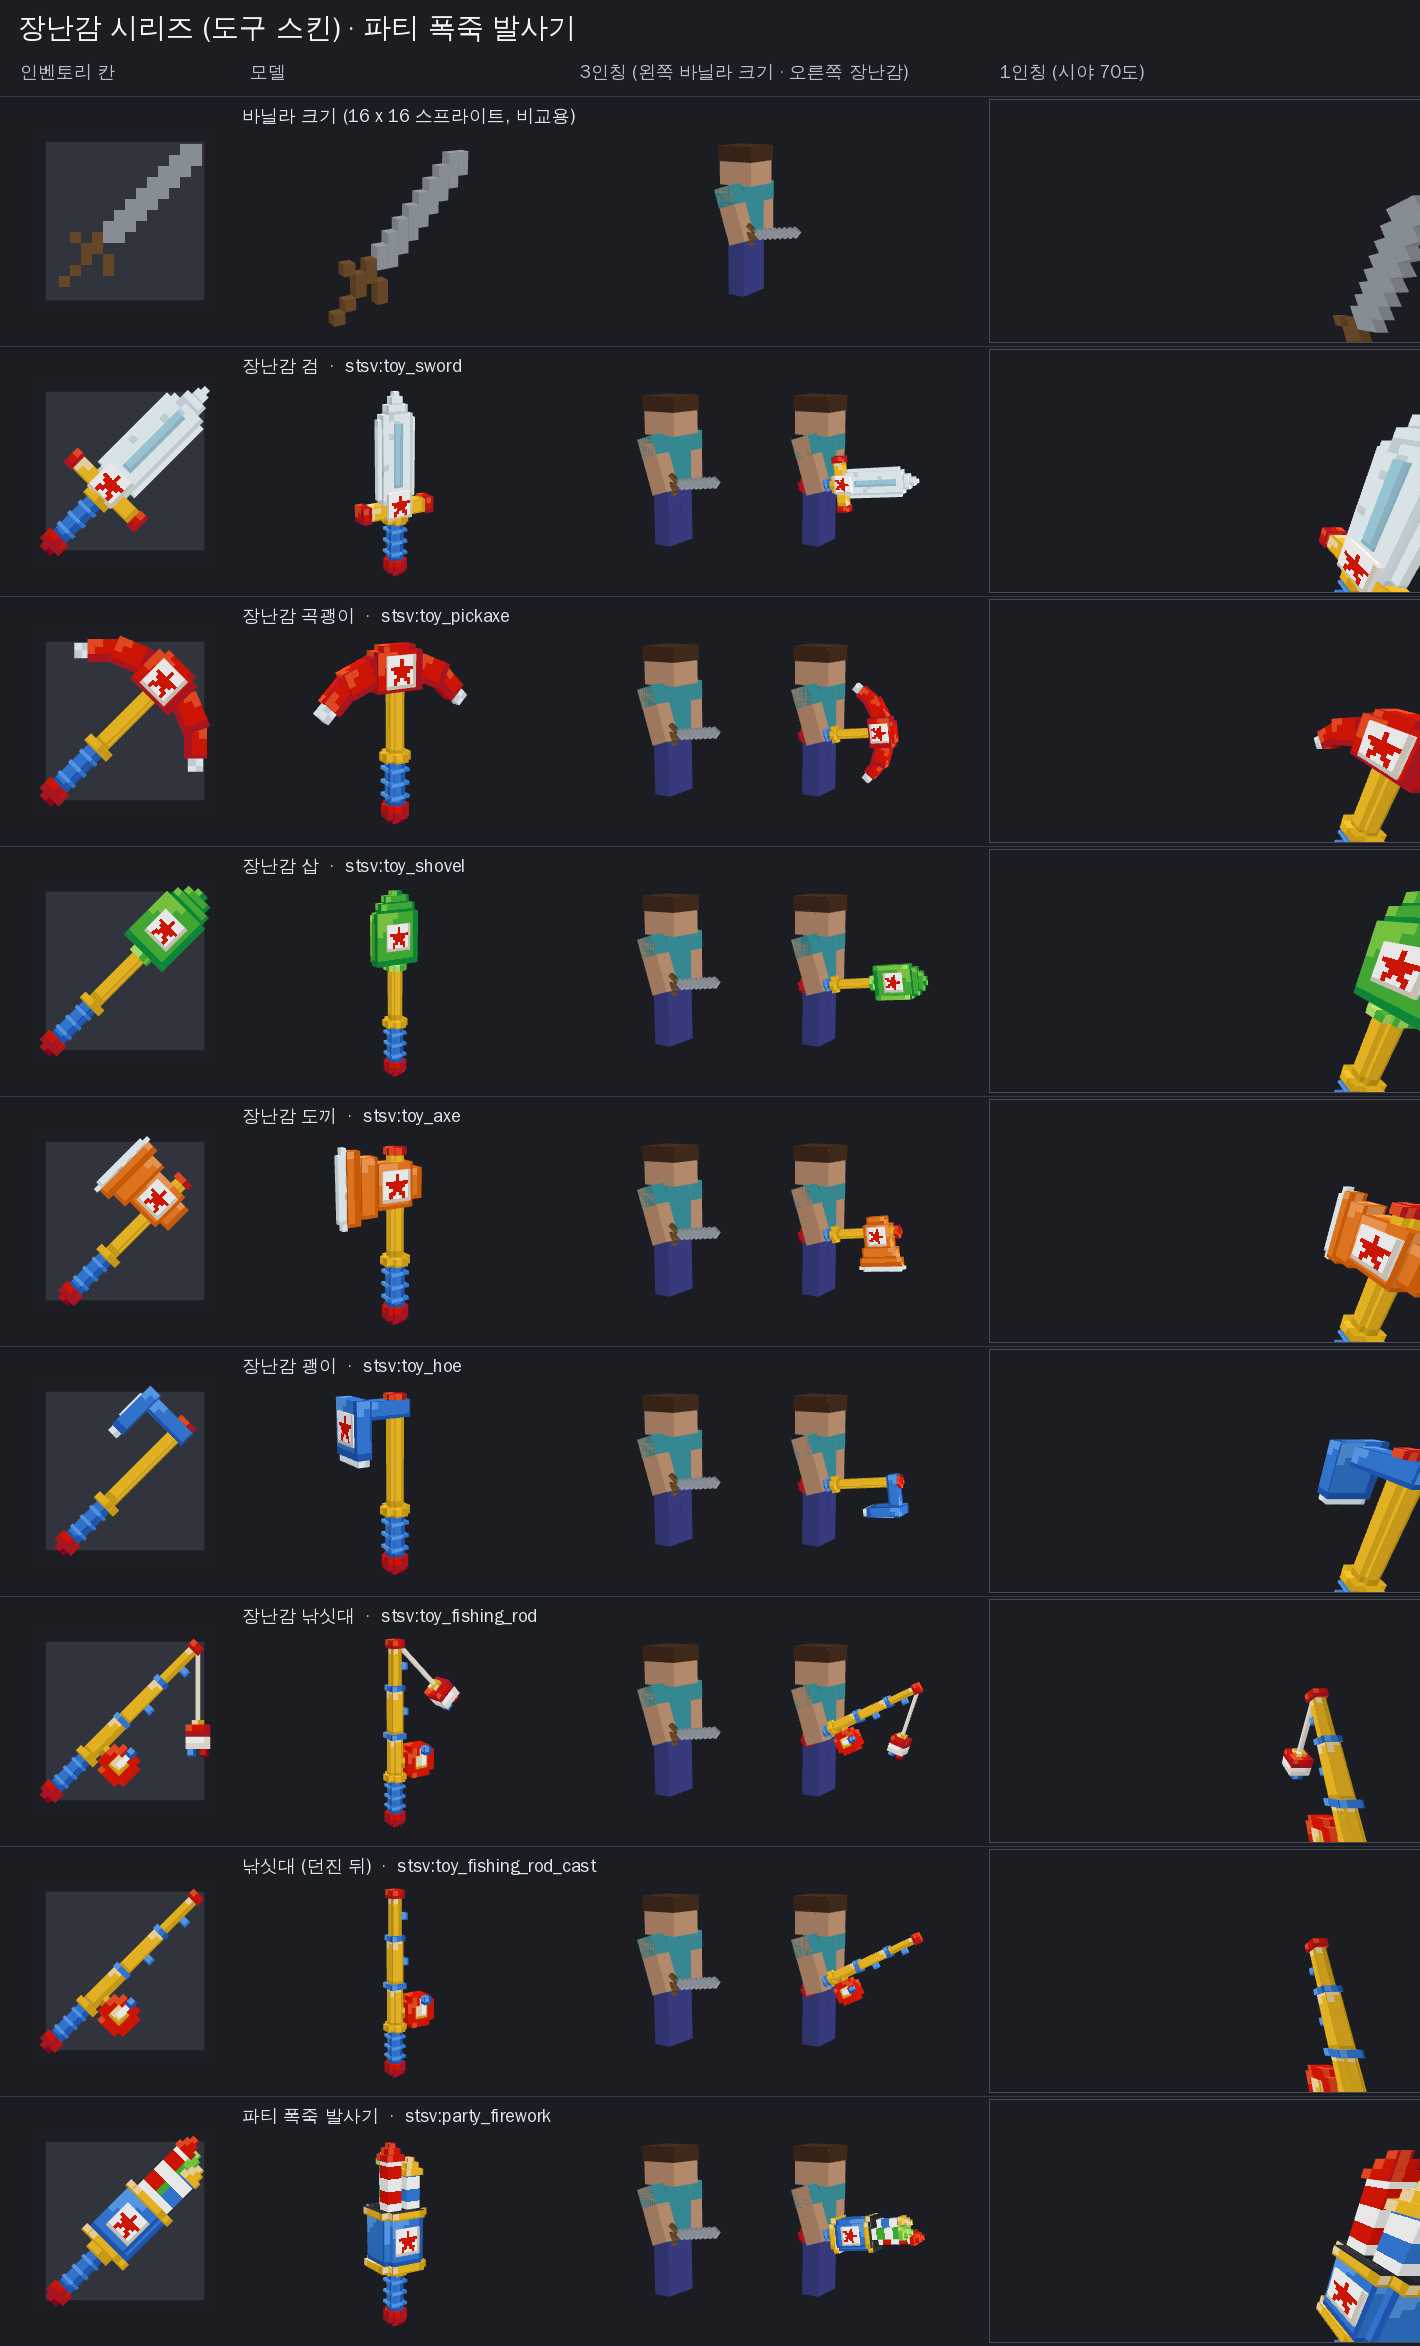
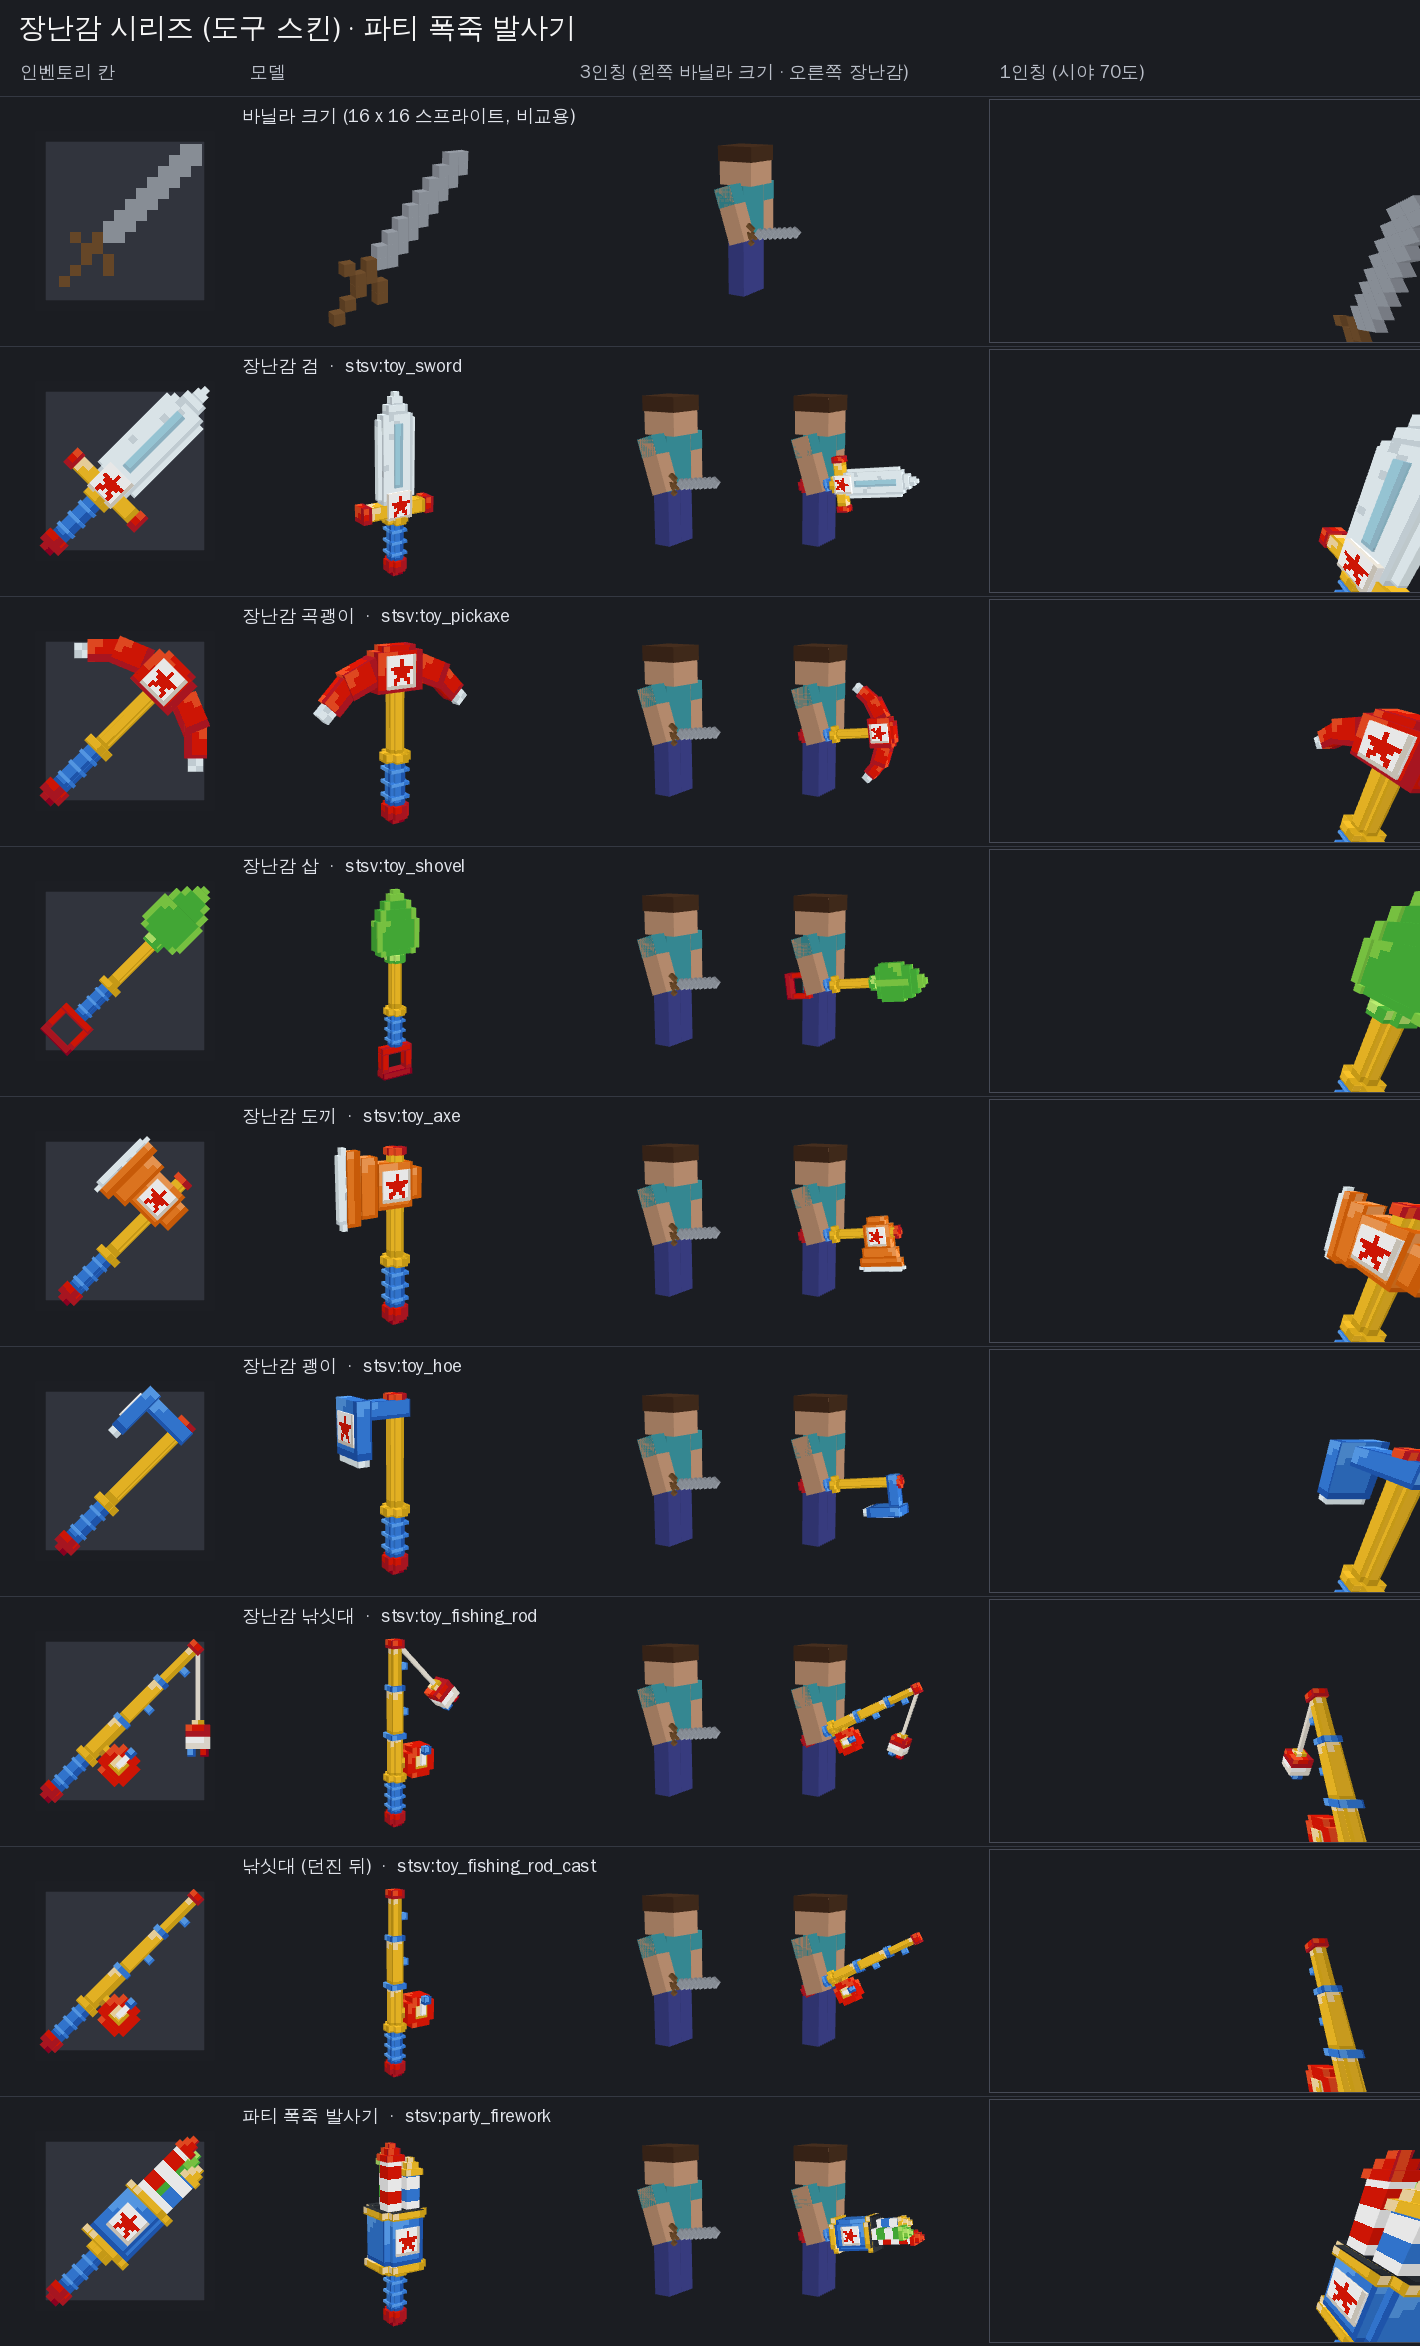
Toy shovel: a spade with a D handle
Its head read as a green box with a sticker. Now wide shoulders above a neck narrow to
a round point, the blade is thin with a light rim proud of its dished face (the side
the inventory and the player's own eyes see) and a spine down its back, and a red D
ends the handle instead of the pommel. No sticker on it. The grip is where it was;
the pictures in the inventory, a frame and on the ground are framed again for the
longer shape. The other pieces are unchanged.

Claude-Session: https://claude.ai/code/session_01RZiBpXr9dauHCJtPMWBQ4s

diff --git a/tools/assetgen/models/toys.py b/tools/assetgen/models/toys.py
@@ -151,11 +151,13 @@ def sticker(m, x0, y0, z0, z1):
           uv={"north": STICKER_UV, "south": STICKER_UV})
 
 
-def handle(m):
-    """What every piece of the series shares: a red pommel, a blue grip with three ribs, a yellow collar (y -4 .. 6.5)."""
+def handle(m, pommel=True):
+    """What every piece of the series shares: a red pommel, a blue grip with three ribs, a yellow collar (y -4 .. 6.5).
+    pommel=False: the piece ends its handle its own way (the shovel's D)."""
     m.group("handle")
-    m.box("pommel_nub", (7, -4, 7), (9, -3.25, 9), GRIP_RED_DARK)
-    round_y(m, "pommel", 6.25, 9.75, 6.25, 9.75, -3.25, -1.25, GRIP_RED, 0.75)
+    if pommel:
+        m.box("pommel_nub", (7, -4, 7), (9, -3.25, 9), GRIP_RED_DARK)
+        round_y(m, "pommel", 6.25, 9.75, 6.25, 9.75, -3.25, -1.25, GRIP_RED, 0.75)
     round_y(m, "grip", 6.75, 9.25, 6.75, 9.25, -1.25, 5.25, GRIP_BLUE, 0.5)
     for y in (-0.25, 1.75, 3.75):
         m.box("grip_rib", (6.5, y, 6.5), (9.5, y + 0.5, 9.5), BLUE_LIGHT)
@@ -230,19 +232,32 @@ def toy_pickaxe():
 
 
 def toy_shovel():
-    """장난감 삽: a green beach spade: a flat blade with a lip down each side of its face, a round tip, the sticker on it."""
+    """장난감 삽: a green spade: wide shoulders above a neck, narrowing to a round point; thin, its face dished (a light rim
+    stands proud of it all round, a spine runs down its back); and a red D at the handle's end instead of the pommel."""
     m = MModel("toy_shovel")
-    handle(m)
+    handle(m, pommel=False)
+    # the D: the grip stands on its top bar, the hand stays on the grip
+    m.box("d_top", (4.75, -2.5, 7), (11.25, -1.25, 9), GRIP_RED)
+    m.box("d_side", (4.75, -6.25, 7), (6, -2.5, 9), GRIP_RED)
+    m.box("d_side", (10, -6.25, 7), (11.25, -2.5, 9), GRIP_RED)
+    m.box("d_bar", (4.75, -7.5, 6.75), (11.25, -6.25, 9.25), GRIP_RED_DARK)
     shaft(m, 15.5)
     m.group("blade")
-    round_y(m, "socket", 6.25, 9.75, 6.25, 9.75, 15.5, 16.5, GREEN_LIGHT, 0.75)
-    m.box("blade", (4, 16.5, 7), (12, 25.5, 9), GREEN)
-    m.box("lip", (4, 17, 6.5), (5, 25, 7), GREEN_LIGHT)
-    m.box("lip", (11, 17, 6.5), (12, 25, 7), GREEN_LIGHT)
-    m.box("blade_tip", (4.75, 25.5, 7), (11.25, 27, 9), GREEN)
-    m.box("blade_tip", (5.75, 27, 7.25), (10.25, 28.25, 8.75), GREEN)
-    m.box("blade_tip", (7, 28.25, 7.5), (9, 29, 8.5), GREEN)
-    sticker(m, 5.75, 19, 6.75, 9.25)
+    round_y(m, "socket", 6.25, 9.75, 6.25, 9.75, 15.5, 17, GREEN_LIGHT, 0.75)
+    # rows from the shoulders to the point: (y0, y1, half width, z0, z1)
+    rows = ((17, 18, 3.75, 7, 9), (18, 23.5, 4.5, 7, 9), (23.5, 25.5, 3.75, 7, 9), (25.5, 27, 2.75, 7.2, 8.8))
+    # the face is one flat green (no line a row: the rows are one sheet), the big row keeps the plastic's glint
+    flat = Mat("slime", "plain", 1, bevel=None, noise=0)
+    light = Mat("slime", "plain", 2, bevel=None, noise=0)      # the rim, the point, the spine: one even light green
+    for y0, y1, hw, z0, z1 in rows:
+        m.box("blade", (C - hw, y0, z0), (C + hw, y1, z1), Mat("slime", "metal", 1, bevel=None, noise=0) if hw == 4.5 else flat)
+        # the rim: a light edge a little proud of the dished face (+z: the side the inventory and the player's own eyes
+        # see), down both sides
+        m.box("rim", (C - hw, y0, z1), (C - hw + 1, y1, z1 + 0.4), light)
+        m.box("rim", (C + hw - 1, y0, z1), (C + hw, y1, z1 + 0.4), light)
+    m.box("point", (6.5, 27, 7.2), (9.5, 28.25, 8.8), light)
+    m.box("point", (7.25, 28.25, 7.4), (8.75, 29, 8.6), light)
+    m.box("spine", (7.25, 17, 6.6), (8.75, 25, 7), light)
     return _held(m, "shovel")
 
 
